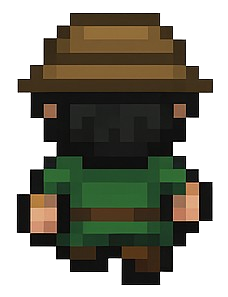
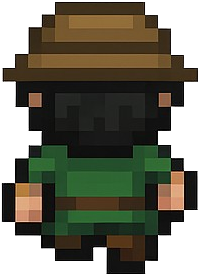
Have added zombie sprites, better knockback, can be knocked out of bounds, made player bigger, door exit locations are more linear, ignore player health and speed they are dev values.

diff --git a/game with zombies and inv.py b/game with zombies and inv.py
@@ -91,18 +91,17 @@ room_bounds = [
 enemy_rooms = ["Main Hallway", "Ballroom", "Torture Chamber", "Servants Quarters", "Basement Storage", "Kitchen"]
 enemies = {}
 enemy_speed = 2.9
-room_entry_time = None
 
 for room in enemy_rooms:
     enemies[room] = [
-        pygame.Rect(420, 290, 30, 30)
+        pygame.Rect(420, 290, 100, 100)
     ]
 
 # Load item images
 health_potion_img = pygame.image.load("images/health_potion.png")
 health_potion_img = pygame.transform.scale(health_potion_img, (40, 40))
 key_img = pygame.image.load("images/key.png")
-key_img = pygame.transform.scale(key_img, (40, 40))
+key_img = pygame.transform.scale(key_img, (50, 50))
 
 # Load player images
 player_images = {
@@ -131,7 +130,26 @@ player_images = {
 # Scale all player images
 for direction in player_images:
     for i in range(len(player_images[direction])):
-        player_images[direction][i] = pygame.transform.scale(player_images[direction][i], (40, 40))
+        player_images[direction][i] = pygame.transform.scale(player_images[direction][i], (70, 70))
+
+# Load zombie images
+zombie_images = {
+    "left": [
+        pygame.image.load("images/zombie_left.png"),
+        pygame.image.load("images/zleft_run1.png"),
+        pygame.image.load("images/zleft_run2.png")
+    ],
+    "right": [
+        pygame.image.load("images/zombie_right.png"),
+        pygame.image.load("images/zright_run1.png"),
+        pygame.image.load("images/zright_run2.png")
+    ]
+}
+
+# Scale all zombie images
+for direction in zombie_images:
+    for i in range(len(zombie_images[direction])):
+        zombie_images[direction][i] = pygame.transform.scale(zombie_images[direction][i], (100, 100))
 
 
 current_room = "Grand Entrance"
@@ -160,16 +178,24 @@ health_potion_img = pygame.transform.scale(health_potion_img, (40, 40))
 key_img = pygame.image.load("images/key.png")
 key_img = pygame.transform.scale(key_img, (40, 40))
 
-# Player setup
-player = pygame.Rect(100, 300, 40, 40)
-player_speed = 5
-health = 5
-
 # Animation state
 player_facing = "front"
 player_frame = 0
 player_anim_timer = 0
 player_anim_delay = 200  # milliseconds
+
+# Player setup
+player = pygame.Rect(80, 275, 70, 70)
+player_speed = 5
+health = 1000
+
+# Zombie animation state
+zombie_frame = 0
+zombie_anim_timer = 0
+zombie_anim_delay = 300
+zombie_facing = {}  # tracks zombie facing per room
+room_entry_time = time.time()
+knockback_force = 50
 
 # Inventory setup
 inventory = []
@@ -284,24 +310,49 @@ while running:
                     inventory.append(item_type)
                     items_in_rooms[current_room].remove((item_rect, item_type))
 
-        if current_room in enemy_rooms:
-            if room_entry_time and time.time() - room_entry_time >= 0.15:
-                for enemy in enemies[current_room]:
-                    dx, dy = player.x - enemy.x, player.y - enemy.y
-                    dist = max((dx ** 2 + dy ** 2) ** 0.5, 1)
-                    enemy.x += enemy_speed * dx / dist
-                    enemy.y += enemy_speed * dy / dist
+        if current_room in enemies:
+            for index, enemy in enumerate(enemies[current_room]):
+                # Determine facing direction
+                if player.x > enemy.x:
+                    face_dir = "right"
+                else:
+                    face_dir = "left"
+                zombie_facing[index] = face_dir
+                # Animate zombie walk
+                if current_time - zombie_anim_timer > zombie_anim_delay:
+                    zombie_frame = (zombie_frame + 1) % 2
+                    zombie_anim_timer = current_time
 
+                # Display idle or walking frame based on room_entry_time
+                time_since_entry = time.time() - room_entry_time
+                if time_since_entry < 0.2:
+                    img = zombie_images[face_dir][0]  # idle
+                else:
+                    # Chase logic
+                    dx, dy = player.x - enemy.x, player.y - enemy.y
+                    distance = max((dx ** 2 + dy ** 2) ** 0.5, 1)
+                    enemy_speed = 2.9
+                    enemy.x += int(enemy_speed * dx / distance)
+                    enemy.y += int(enemy_speed * dy / distance)
+                    img = zombie_images[face_dir][zombie_frame + 1]  # walk animation
+
+                    # Collision and knockback
                     if player.colliderect(enemy):
                         health -= 1
-                        player.x -= 50
-                        player.y -= 50
-                        if health <= 0:
-                            print("You Died!")
-                            running = False
-
-            for enemy in enemies[current_room]:
-                pygame.draw.ellipse(screen, (0, 255, 0), enemy)
+                        knock_dx = int(knockback_force * dx / distance)
+                        knock_dy = int(knockback_force * dy / distance)
+                        player.x += knock_dx
+                        player.y += knock_dy
+                        # Prevent player from being knocked outside bounds
+                        if player.left < 30: player.left = 31
+                        if player.right > SCREEN_WIDTH - 30: player.right = SCREEN_WIDTH - 31
+                        if player.top < 30: player.top = 30
+                        if player.bottom > SCREEN_HEIGHT - 30: player.bottom = SCREEN_HEIGHT - 31
+                screen.blit(img, enemy)
+                
+            if health <= 0:
+                print("You Died!")
+                running = False
 
     pygame.display.flip()
 
@@ -378,13 +429,13 @@ while running:
                     current_room = next_room
                     room_entry_time = time.time() if current_room in enemy_rooms else None
                     if direction == "north":
-                        player.x, player.y = 400, 500
+                        player.x, player.y = 375, 475
                     elif direction == "south":
-                        player.x, player.y = 400, 100
+                        player.x, player.y = 375, 70
                     elif direction == "west":
-                        player.x, player.y = 700, 300
+                        player.x, player.y = 675, 275
                     elif direction == "east":
-                        player.x, player.y = 100, 300
+                        player.x, player.y = 75, 275
                     break
 
     if keys[pygame.K_i] and current_time - last_inventory_toggle > inventory_cooldown:
